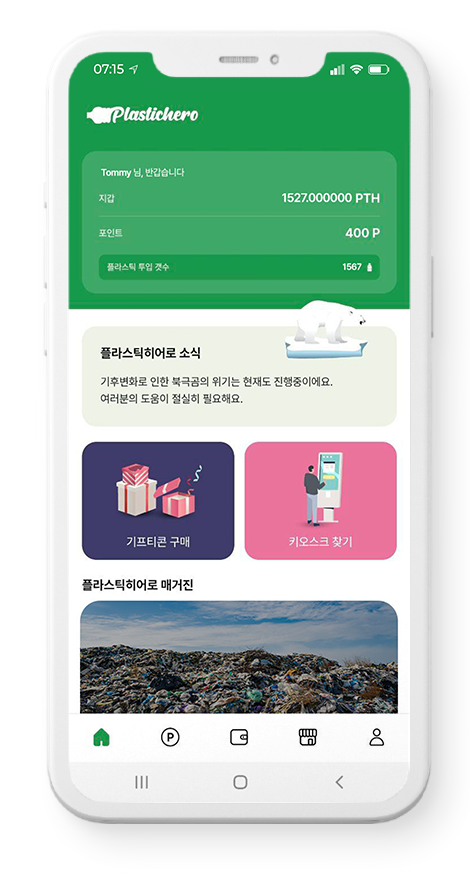
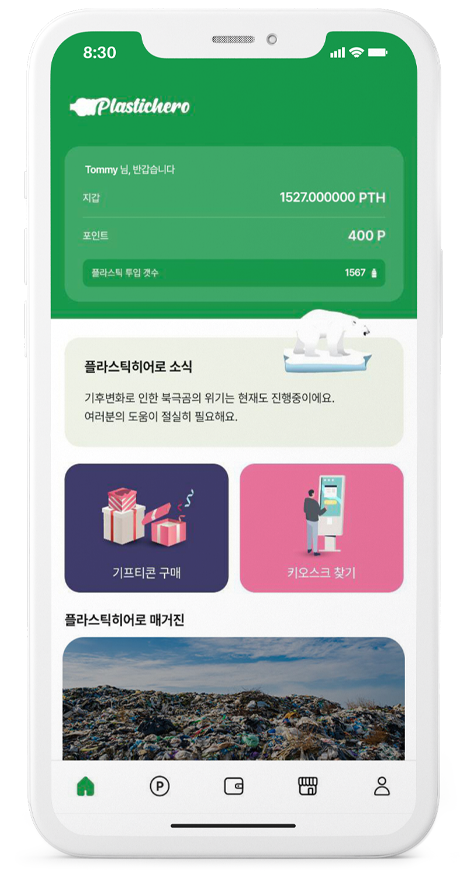
모바일 NAV

diff --git a/ecocentre/src/Style.scss b/ecocentre/src/Style.scss
@@ -13,7 +13,7 @@
   align-items: center;
 }
 @mixin tablet {
-  @media (max-width: 1140px) {
+  @media (max-width: 1250px) {
     @content;
   }
 }
@@ -51,6 +51,9 @@ ul {
   z-index: 9999;
   @include flexCenter();
   padding: 20px 0;
+  @include tablet {
+    display: none;
+  }
   .nav-inner {
     width: 100%;
     max-width: 1140px;
@@ -104,6 +107,127 @@ ul {
     }
   }
 }
+// Mobile-Nav
+.m-nav {
+  display: none;
+  width: 100%;
+  z-index: 999;
+  padding: 15px 0;
+  @include tablet {
+    display: block;
+    position: fixed;
+    top: 0;
+    left: 0;
+    .m-nav-inner {
+      width: 95%;
+      margin: 0 auto;
+      display: flex;
+      justify-content: space-between;
+      align-items: center;
+      position: relative;
+      .logo-box {
+        width: 130px;
+        img {
+          width: 100%;
+          object-fit: cover;
+        }
+      }
+      .dropdown {
+        position: absolute;
+        left: 150px;
+        button {
+          display: flex;
+          align-items: center;
+          img {
+            width: 25px;
+            object-fit: cover;
+          }
+          &::after {
+            border-top: 0.5em solid;
+            border-right: 0.5em solid transparent;
+            border-bottom: 0;
+            border-left: 0.5em solid transparent;
+          }
+        }
+      }
+      button {
+        position: relative;
+        background-color: transparent;
+        border: none;
+        outline: none;
+        svg {
+          width: 34px;
+          height: 34px;
+          fill: none;
+          stroke: white;
+          stroke-width: 3px;
+          stroke-linecap: round;
+          stroke-linejoin: round;
+        }
+      }
+    }
+  }
+}
+.m-nav.active {
+  background-color: white;
+  border-bottom: 1px solid #f9fafb;
+
+  .m-nav-inner {
+    .dropdown {
+      button {
+        &::after {
+          border-top: 0.5em solid black;
+          border-right: 0.5em solid transparent;
+          border-bottom: 0;
+          border-left: 0.5em solid transparent;
+        }
+      }
+    }
+    button {
+      svg {
+        stroke: black;
+        stroke-width: 3px;
+      }
+    }
+  }
+}
+.offcanvas.offcanvas-end {
+  width: 100%;
+  background-color: rgba(255, 255, 255, 0.7);
+  backdrop-filter: blur(10px);
+  border: none;
+  .offcanvas-header {
+    img {
+      width: 130px;
+      object-fit: cover;
+    }
+    button {
+      transform: scale(1.4);
+    }
+  }
+  .offcanvas-body {
+    ul {
+      width: 100%;
+      height: 100%;
+      display: flex;
+      flex-direction: column;
+      align-items: center;
+      justify-content: center;
+      gap: 20px;
+      li {
+        font-size: 38px;
+        font-family: $font-NanumSquare;
+        font-weight: 800;
+        color: black;
+        cursor: pointer;
+        &:hover {
+          color: #333;
+        }
+      }
+    }
+  }
+}
+// Sub-nab
 .subnav {
   .nav-inner {
     .nav-icon {
@@ -902,13 +1026,14 @@ ul {
   width: 100%;
   padding: 0 40px 249px;
   pointer-events: none;
+
   .app-inner {
     width: 100%;
     max-width: 1140px;
     margin: 0 auto;
     .app-first {
       width: 100%;
-      padding: 100px 0;
+      padding: 100px 0 240px;
 
       h4 {
         font-size: 30px;
@@ -1102,14 +1227,17 @@ ul {
         .phone-img {
           width: 390px;
           height: 670px;
-          background-color: #333;
+          img {
+            width: 100%;
+            object-fit: cover;
+          }
         }
       }
       position: relative;
       .third-list {
         width: 100%;
         position: absolute;
-        bottom: 50px;
+        bottom: 150px;
         ul {
           width: 100%;
           display: flex;
@@ -2229,7 +2357,7 @@ ul {
   position: fixed;
   right: 50px;
   bottom: 50px;
-  font-size: 26px;
+  font-size: 23px;
   font-family: $font-NanumSquare;
   font-weight: 800;
   background-color: white;
@@ -2246,6 +2374,7 @@ ul {
   width: 100%;
   height: calc(var(--vh, 1vh) * 100);
   overflow: hidden;
+  z-index: 99999;
 
   .modal-dialog {
     width: 100%;

diff --git a/ecocentre/src/components/Mnav.js b/ecocentre/src/components/Mnav.js
@@ -1,0 +1,86 @@
+import React, { useEffect, useState } from "react";
+import Button from "react-bootstrap/Button";
+import Offcanvas from "react-bootstrap/Offcanvas";
+import Dropdown from "react-bootstrap/Dropdown";
+
+function OffCanvasExample({ name, ...props }) {
+  const [show, setShow] = useState(false);
+
+  const handleClose = () => setShow(false);
+  const handleShow = () => setShow(true);
+
+  return (
+    <>
+      <Button variant="primary" onClick={handleShow} className="me-2">
+        <svg
+          xmlns="http://www.w3.org/2000/svg"
+          className="lucide lucide-align-justify"
+        >
+          <line x1="3" x2="31" y1="6" y2="6" />
+          <line x1="3" x2="31" y1="16" y2="16" />
+          <line x1="3" x2="31" y1="26" y2="26" />
+        </svg>
+      </Button>
+      <Offcanvas show={show} onHide={handleClose} {...props} className="m-menu">
+        <Offcanvas.Header closeButton>
+          <Offcanvas.Title>
+            <img src="/assets/image/logo-color.png" alt="logo" />
+          </Offcanvas.Title>
+        </Offcanvas.Header>
+        <Offcanvas.Body>
+          <ul>
+            <li>회사소개</li>
+            <li>플라스틱히어로</li>
+            <li>App</li>
+            <li>ESG</li>
+            <li>소식</li>
+            <li>FAQ</li>
+          </ul>
+        </Offcanvas.Body>
+      </Offcanvas>
+    </>
+  );
+}
+
+function Mnav() {
+  const [logo, setLogo] = useState("/assets/image/logo-white.png");
+  const [lang, setLang] = useState("/assets/image/lang-white.png");
+  const [active, setActive] = useState("");
+
+  useEffect(() => {
+    window.addEventListener("scroll", () => {
+      if (window.scrollY >= 10) {
+        setLogo("/assets/image/logo-color.png");
+        setActive("active");
+        setLang("/assets/image/lang-black.png");
+      } else {
+        setLogo("/assets/image/logo-white.png");
+        setActive("");
+        setLang("/assets/image/lang-white.png");
+      }
+    });
+  }, []);
+
+  return (
+    <nav className={`m-nav ${active}`}>
+      <div className="m-nav-inner">
+        <div className="logo-box">
+          <img src={logo} alt="logo" />
+        </div>
+        <Dropdown>
+          <Dropdown.Toggle variant="success" id="dropdown-basic">
+            <img src={lang} alt="lang" />
+          </Dropdown.Toggle>
+
+          <Dropdown.Menu>
+            <Dropdown.Item href="#/action-1">한국어</Dropdown.Item>
+            <Dropdown.Item href="#/action-2">ENGLISH</Dropdown.Item>
+          </Dropdown.Menu>
+        </Dropdown>
+        <OffCanvasExample placement={"end"} name={"end"} />
+      </div>
+    </nav>
+  );
+}
+
+export default Mnav;

diff --git a/ecocentre/src/App.js b/ecocentre/src/App.js
@@ -19,6 +19,7 @@ import Ask from "./section/question/Ask";
 import SubNav from "./components/SubNav";
 import NewsList from "./section/news/NewsList";
 import Send from "./components/Send";
+import Mnav from "./components/Mnav";
 
 function App() {
   function setScreenSize() {
@@ -37,6 +38,7 @@ function App() {
           element={
             <>
               <Nav />
+              <Mnav />
               <Main />
               <BannerTitle
                 title={"우리가 하는 일"}
@@ -123,7 +125,25 @@ function App() {
           }
         ></Route>
 
-        <Route path="*" element={<div>없는 페이지 404</div>}></Route>
+        <Route
+          path="*"
+          element={
+            <div
+              style={{
+                width: "100%",
+                height: "100vh",
+                display: "flex",
+                justifyContent: "center",
+                alignItems: "center",
+                fontSize: "42px",
+                fontWeight: "bold",
+                pointerEvents: "none",
+              }}
+            >
+              없는 페이지 404
+            </div>
+          }
+        ></Route>
       </Routes>
       <Footer />
       <Send />
